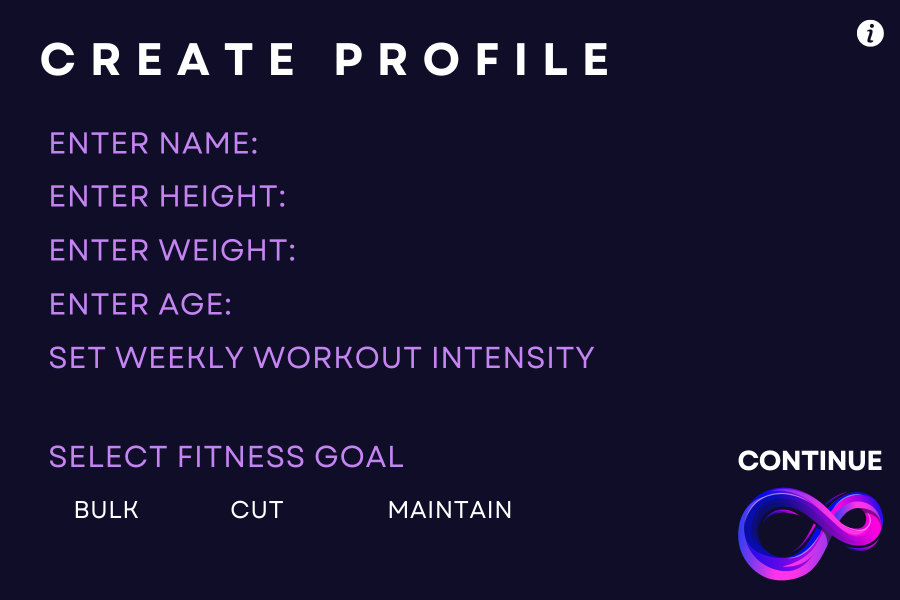
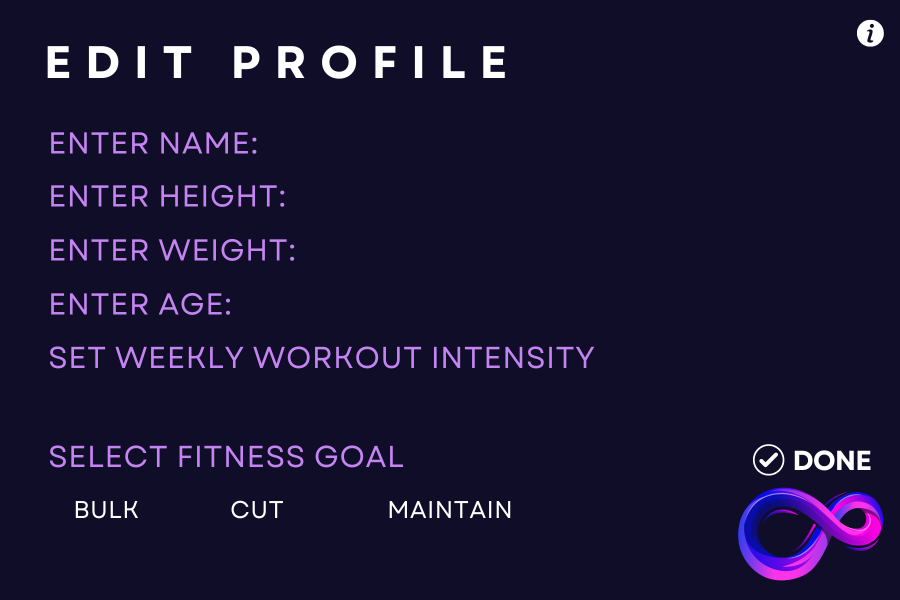
Implemented State Machine Component: UserSettings.java

Changed region(s): [[0.0311, 0.06, 0.6844, 0.15], [0.8089, 0.72, 0.9956, 0.81]]

diff --git a/src/main/ui/graphical/UserSettings.java b/src/main/ui/graphical/UserSettings.java
@@ -1,10 +1,135 @@
 package ui.graphical;
 
+import javax.swing.*;
+import java.awt.Font;
+import java.awt.Color;
+
 import model.UserProfile;
 
-public class UserSettings {
-    
+public class UserSettings extends JFrame {
+    private UserProfile mainUser;
+    private JLayeredPane layeredPane;
+    private JLabel nameValueLabel;
+    private JLabel heightValueLabel;
+    private JLabel weightValueLabel;
+    private JLabel bmiValueLabel;
+    private JLabel ageValueLabel;
+    private JLabel calorieValueLabel;
+    private JLabel intensityValueLabel;
+    private JLabel goalValueLabel;
+    private JButton backButton;
+
     public UserSettings(UserProfile user) {
-        
+        this.mainUser = user;
+        run();
+    }
+
+    private void run() {
+        ImageIcon splashIcon = new ImageIcon("./assets/viewprofile.png");
+        JLabel splashLabel = new JLabel(splashIcon);
+
+        this.setTitle("FitHub");
+        this.setSize(splashIcon.getIconWidth(), splashIcon.getIconHeight());
+        this.setLocationRelativeTo(null);
+        this.setDefaultCloseOperation(JFrame.EXIT_ON_CLOSE);
+        this.setResizable(false);
+        this.setUndecorated(true);
+
+        layeredPane = new JLayeredPane();
+        layeredPane.setSize(this.getSize());
+        splashLabel.setBounds(0, 0, this.getWidth(), this.getHeight());
+        layeredPane.add(splashLabel, JLayeredPane.DEFAULT_LAYER);
+
+        configureScreen();
+
+        this.setContentPane(layeredPane);
+        this.setVisible(true);
+    }
+
+    private void configureScreen() {
+        initNameLabel();
+        initHeightLabel();
+        initWeightLabel();
+        initBmiLabel();
+        initAgeLabel();
+        initCalorieLabel();
+        initIntensityLabel();
+        initGoalLabel();
+        initBackButton();
+    }
+
+    private void initNameLabel() {
+        nameValueLabel = new JLabel(mainUser.getName());
+        nameValueLabel.setFont(new Font("Dialog", Font.PLAIN, 28));
+        nameValueLabel.setForeground(Color.WHITE);
+        nameValueLabel.setBounds(155, 126, 400, 30);
+        layeredPane.add(nameValueLabel, JLayeredPane.PALETTE_LAYER);
+    }
+
+    private void initHeightLabel() {
+        heightValueLabel = new JLabel(mainUser.getHeight() + " cm");
+        heightValueLabel.setFont(new Font("Dialog", Font.PLAIN, 28));
+        heightValueLabel.setForeground(Color.WHITE);
+        heightValueLabel.setBounds(180, 181, 400, 30);
+        layeredPane.add(heightValueLabel, JLayeredPane.PALETTE_LAYER);
+    }
+
+    private void initWeightLabel() {
+        weightValueLabel = new JLabel(mainUser.getWeight() + " kg");
+        weightValueLabel.setFont(new Font("Dialog", Font.PLAIN, 28));
+        weightValueLabel.setForeground(Color.WHITE);
+        weightValueLabel.setBounds(190, 235, 400, 30);
+        layeredPane.add(weightValueLabel, JLayeredPane.PALETTE_LAYER);
+    }
+
+    private void initBmiLabel() {
+        bmiValueLabel = new JLabel(mainUser.getBmi() + "");
+        bmiValueLabel.setFont(new Font("Dialog", Font.PLAIN, 28));
+        bmiValueLabel.setForeground(Color.WHITE);
+        bmiValueLabel.setBounds(118, 289, 400, 30);
+        layeredPane.add(bmiValueLabel, JLayeredPane.PALETTE_LAYER);
+    }
+
+    private void initAgeLabel() {
+        ageValueLabel = new JLabel(mainUser.getAge() + " years");
+        ageValueLabel.setFont(new Font("Dialog", Font.PLAIN, 28));
+        ageValueLabel.setForeground(Color.WHITE);
+        ageValueLabel.setBounds(125, 343, 400, 30);
+        layeredPane.add(ageValueLabel, JLayeredPane.PALETTE_LAYER);
+    }
+
+    private void initCalorieLabel() {
+        calorieValueLabel = new JLabel(mainUser.getTargetCalories() + " kcals");
+        calorieValueLabel.setFont(new Font("Dialog", Font.PLAIN, 28));
+        calorieValueLabel.setForeground(Color.WHITE);
+        calorieValueLabel.setBounds(322, 396, 400, 30);
+        layeredPane.add(calorieValueLabel, JLayeredPane.PALETTE_LAYER);
+    }
+
+    private void initIntensityLabel() {
+        intensityValueLabel = new JLabel(mainUser.getIntensity() + " days/week");
+        intensityValueLabel.setFont(new Font("Dialog", Font.PLAIN, 28));
+        intensityValueLabel.setForeground(Color.WHITE);
+        intensityValueLabel.setBounds(402, 450, 400, 30);
+        layeredPane.add(intensityValueLabel, JLayeredPane.PALETTE_LAYER);
+    }
+
+    private void initGoalLabel() {
+        goalValueLabel = new JLabel(mainUser.getGoal().substring(0, 1).toUpperCase() + mainUser.getGoal().substring(1));
+        goalValueLabel.setFont(new Font("Dialog", Font.PLAIN, 28));
+        goalValueLabel.setForeground(Color.WHITE);
+        goalValueLabel.setBounds(289, 504, 400, 30);
+        layeredPane.add(goalValueLabel, JLayeredPane.PALETTE_LAYER);
+    }
+
+    private void initBackButton() {
+        backButton = new JButton();
+        backButton.setBounds(730, 425, 155, 155);
+        backButton.setContentAreaFilled(false);
+        backButton.setBorderPainted(false);
+        backButton.setFocusPainted(false);
+        backButton.setOpaque(false);
+        layeredPane.add(backButton, JLayeredPane.PALETTE_LAYER);
+        backButton.addActionListener(e -> this.dispose());
     }
 }

diff --git a/src/main/ui/graphical/SplashScreen.java b/src/main/ui/graphical/SplashScreen.java
@@ -63,7 +63,7 @@ public class SplashScreen extends JFrame {
      * - disposes the splash screen once progress bar reaches 100%
      */
     private void startProgressBar() {
-        Timer timer = new Timer(1, e -> {
+        Timer timer = new Timer(15, e -> {
             progress += 1;
             progressBar.setValue(progress);
             if (progress >= 100) {
